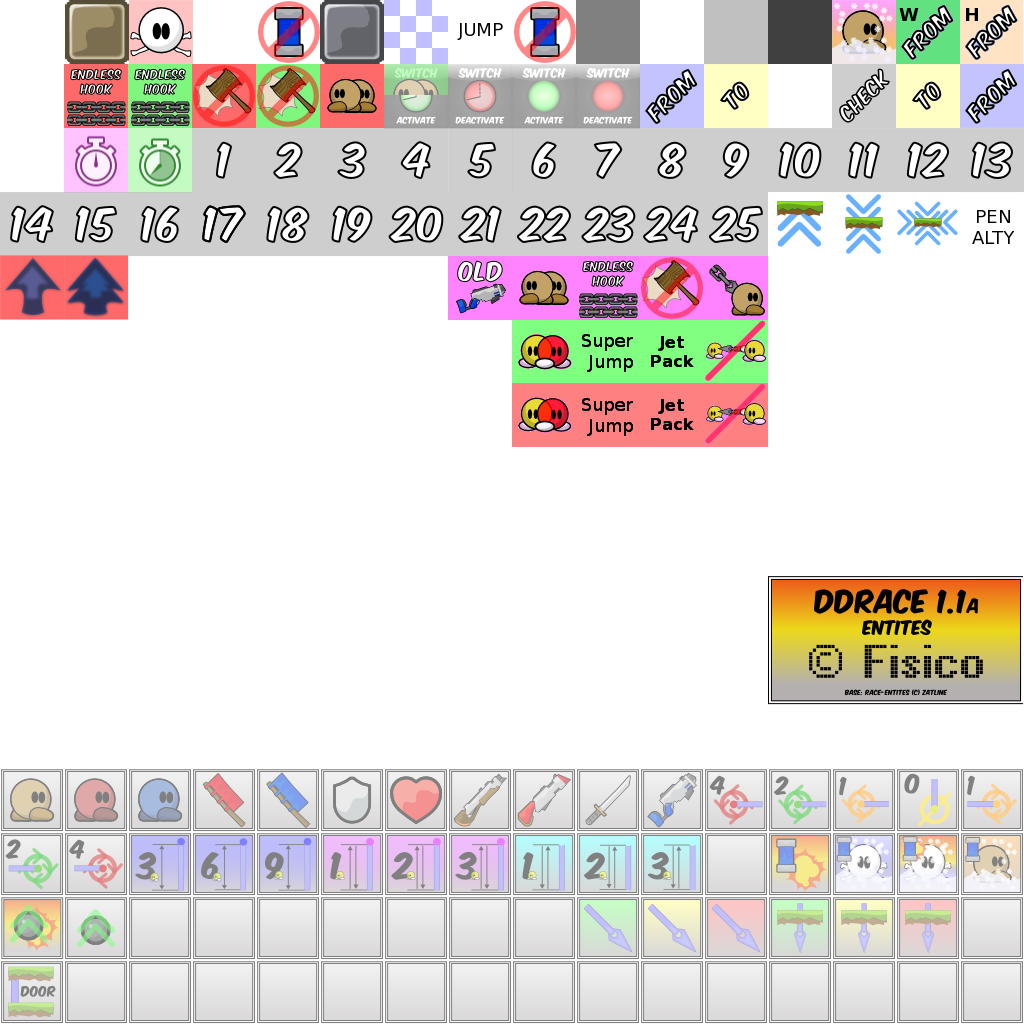
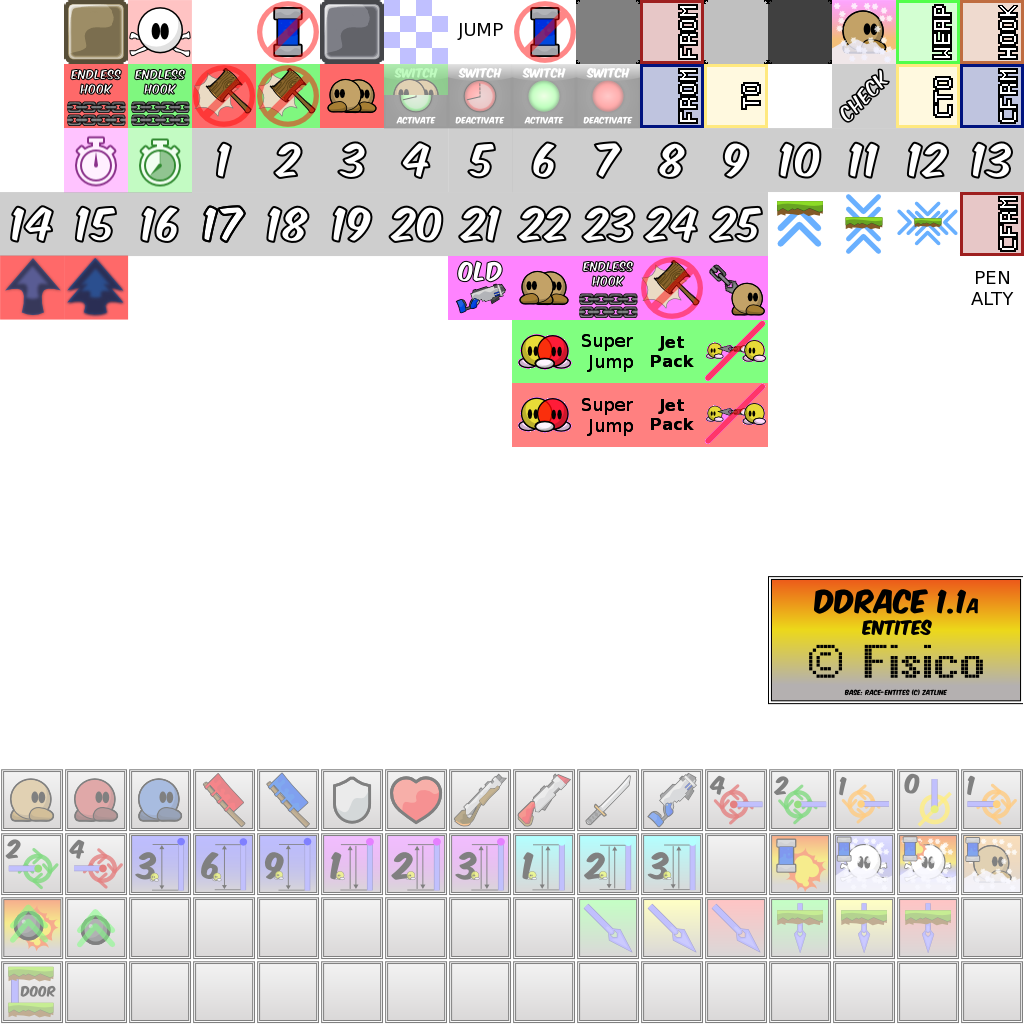
Tile redesign

diff --git a/src/game/mapitems.h b/src/game/mapitems.h
@@ -123,7 +123,6 @@ enum
 	TILE_STOP = 60,
 	TILE_STOPS,
 	TILE_STOPA,
-	TILE_PENALTY,
 	TILE_TELECHECKINEVIL = 63,
 	TILE_CP = 64,
 	TILE_CP_F,
@@ -132,6 +131,7 @@ enum
 	TILE_EHOOK,
 	TILE_NOHIT,
 	TILE_NPH,
+	TILE_PENALTY = 79,
 	TILE_NPC_END = 88,
 	TILE_SUPER_END,
 	TILE_JETPACK_END,
